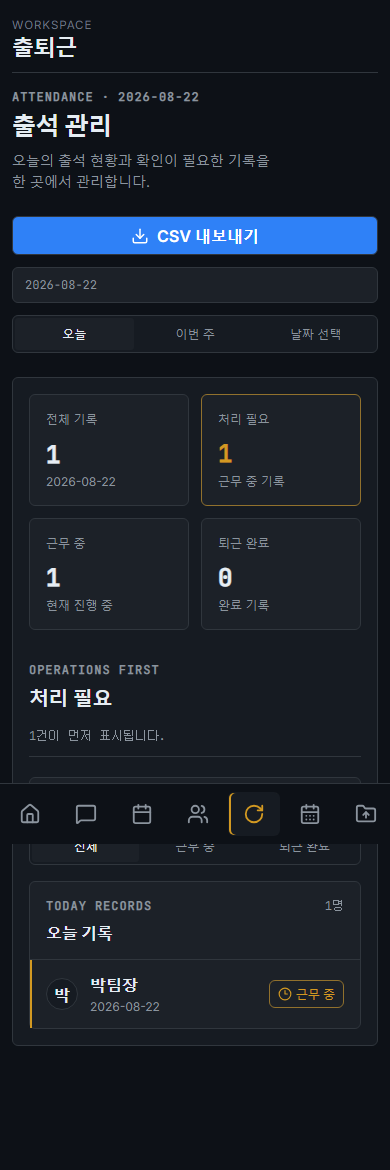
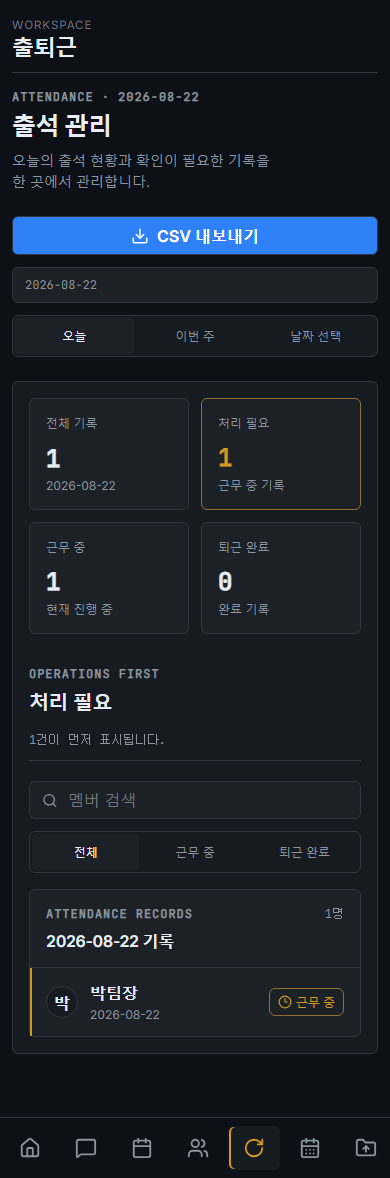
[Docs] #410 - Before After 증적과 최종 SHA 갱신
- 최신 Chromium 캡처와 역할별 상호작용 수치를 기록\n- DESIGN.md에 최종 렌더링 커밋과 날짜 범위 라벨 검증을 반영

diff --git a/DESIGN.md b/DESIGN.md
@@ -137,24 +137,25 @@ Before interaction findings:
 
 ### After
 
-After captures were regenerated on `2026-08-22` against rendered implementation commit `ca3881ea20908846a24026ad221ea8f27de2c753`, after the state-region fix at `3867346a85093c3ca30d4699a6f9f6eecdf24656`. The captures use the same route, role, viewport, mock mode, and default scroll position as the Before set. Full-page image heights record the rendered scroll height; a second browser pass checked bottom clearance at the maximum scroll position. Each PNG carries a `capture-source-sha` metadata marker for the rendered implementation; later commits only update DESIGN/evidence metadata.
+After captures were regenerated on `2026-08-22` against rendered implementation commit `4c8ec8f238a19c22ed95ac1201aa761bf16264f`, after the permission, race-safety, cache-isolation, touch-target, and date-range-label fixes. The captures use the same route, role, viewport, mock mode, and default scroll position as the Before set. Full-page image heights record the rendered scroll height; a second browser pass checked bottom clearance at the maximum scroll position. Each PNG carries a `capture-source-sha` metadata marker for the rendered implementation; later commits only update DESIGN/evidence metadata.
 
 | Capture | Role | Viewport | Objective evidence | File |
 | --- | --- | --- | --- | --- |
-| Admin desktop | ADMIN | `1280×900` | `scrollWidth=1280`; 3 current records rendered, with 2 `근무 중` records ordered before the completed record. | `.qa/issue-410/after/admin-1280.png` |
-| Admin narrow | ADMIN | `768×1024` | `scrollWidth=768`, full-page `scrollHeight=1027`; summary and record/detail regions remain in one readable column, with 44px clearance above fixed navigation at max scroll. | `.qa/issue-410/after/admin-768.png` |
-| Admin mobile | ADMIN | `390×844` | `scrollWidth=390`, full-page `scrollHeight=1306`; no horizontal overflow, 2×2 summary grid, compact record rows, and 44px clearance above fixed navigation at max scroll. | `.qa/issue-410/after/admin-390.png` |
-| Team lead mobile | TEAM_LEAD | `390×844` | `scrollWidth=390`, full-page `scrollHeight=1170`; only the team lead's `박팀장` record is rendered, with 52px clearance above fixed navigation at max scroll. | `.qa/issue-410/after/team-lead-390.png` |
-| Member mobile | MEMBER | `390×844` | `scrollWidth=390`, full-page `scrollHeight=2233`; today status, one `퇴근하기` CTA, timeline, records, and schedule settings stack without horizontal overflow, with 52px clearance above fixed navigation at max scroll. | `.qa/issue-410/after/member-390.png` |
-| Member desktop | MEMBER | `1280×900` | `scrollWidth=1280`, full-page `scrollHeight=1671`; today status and `08:30–17:30` schedule are first, followed by the text timeline, personal record, and settings sections. | `.qa/issue-410/after/member-1280.png` |
+| Admin desktop | ADMIN | `1280×900` | `scrollWidth=1280`, full-page `scrollHeight=900`; 3 current records rendered, with 2 `근무 중` records ordered before the completed record. | `.qa/issue-410/after/admin-1280.png` |
+| Admin narrow | ADMIN | `768×1024` | `scrollWidth=768`, full-page `scrollHeight=1034`; summary and record/detail regions remain in one readable column, with 59px clearance above fixed navigation at max scroll. | `.qa/issue-410/after/admin-768.png` |
+| Admin mobile | ADMIN | `390×844` | `scrollWidth=390`, full-page `scrollHeight=1314`; no horizontal overflow, 2×2 summary grid, compact record rows, and 55px clearance above fixed navigation at max scroll. | `.qa/issue-410/after/admin-390.png` |
+| Team lead mobile | TEAM_LEAD | `390×844` | `scrollWidth=390`, full-page `scrollHeight=1178`; only the team lead's `박팀장` record is rendered, with 63px clearance above fixed navigation at max scroll. | `.qa/issue-410/after/team-lead-390.png` |
+| Member mobile | MEMBER | `390×844` | `scrollWidth=390`, full-page `scrollHeight=2241`; today status, one `퇴근하기` CTA, timeline, records, and schedule settings stack without horizontal overflow, with 63px clearance above fixed navigation at max scroll. | `.qa/issue-410/after/member-390.png` |
+| Member desktop | MEMBER | `1280×900` | `scrollWidth=1280`, full-page `scrollHeight=1675`; today status and `08:30–17:30` schedule are first, followed by the text timeline, personal record, and settings sections. | `.qa/issue-410/after/member-1280.png` |
 
 After interaction evidence:
 
 - Admin search for `박` reduced the record list to `박팀장`; clearing the search restored all 3 records.
 - Selecting `김리더 기록 상세 보기` opened a labelled detail panel with date, status, scheduled time, `09:02`, and `18:15`.
-- Member `퇴근하기` changed the status copy to `퇴근 완료` and disabled the CTA after the mock API response.
+- Admin `이번 주` changed the management description to `이번 주의 출석 현황` and the record heading to the selected `YYYY-MM-DD ~ YYYY-MM-DD 기록` range.
+- Member `퇴근하기` changed the timeline status copy to `퇴근 완료` and changed the CTA to disabled `오늘 출석 완료` after the mock API response.
 - Team lead login rendered only the own-team `박팀장` record; admin retained the full three-record view.
-- At maximum narrow/mobile scroll, the admin record region and member schedule section ended above the fixed navigation (`44px` and `52px` respectively).
+- At maximum narrow/mobile scroll, the admin record region and member schedule section ended above the fixed navigation (`59px`, `55px`, `63px`, and `63px` for admin narrow, admin mobile, team-lead mobile, and member mobile respectively).
 
 After verification checklist:
 
